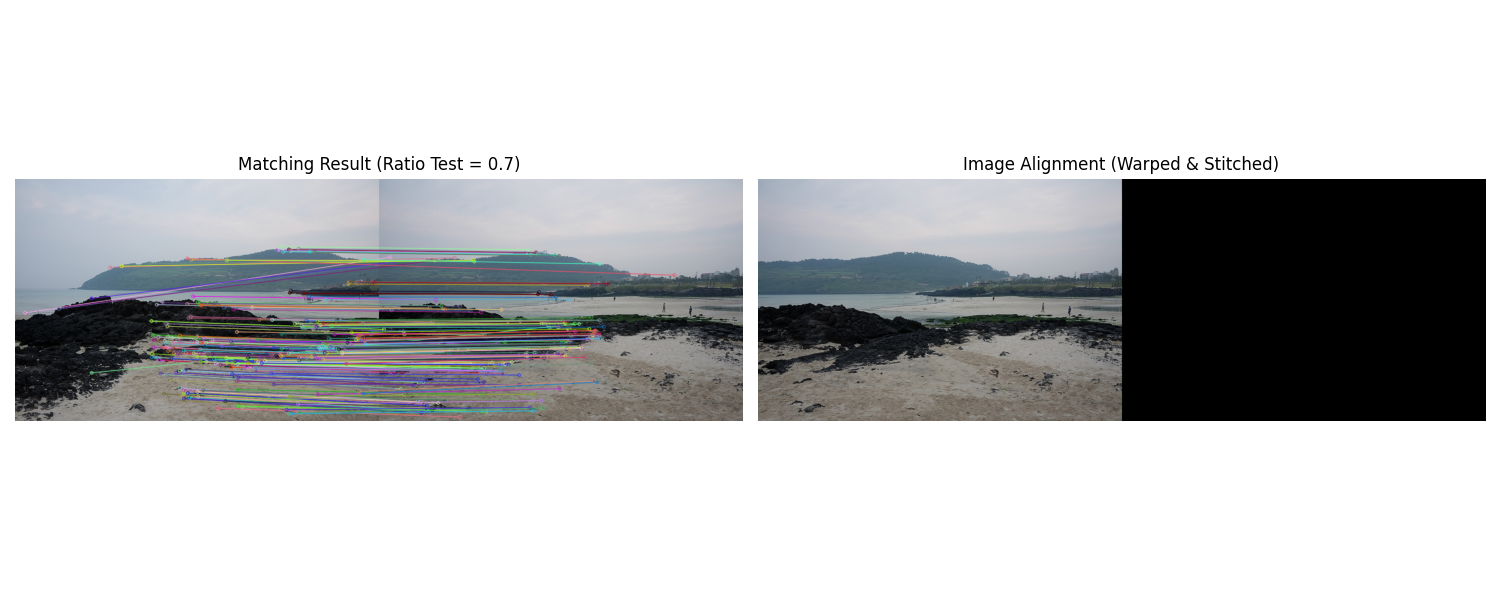
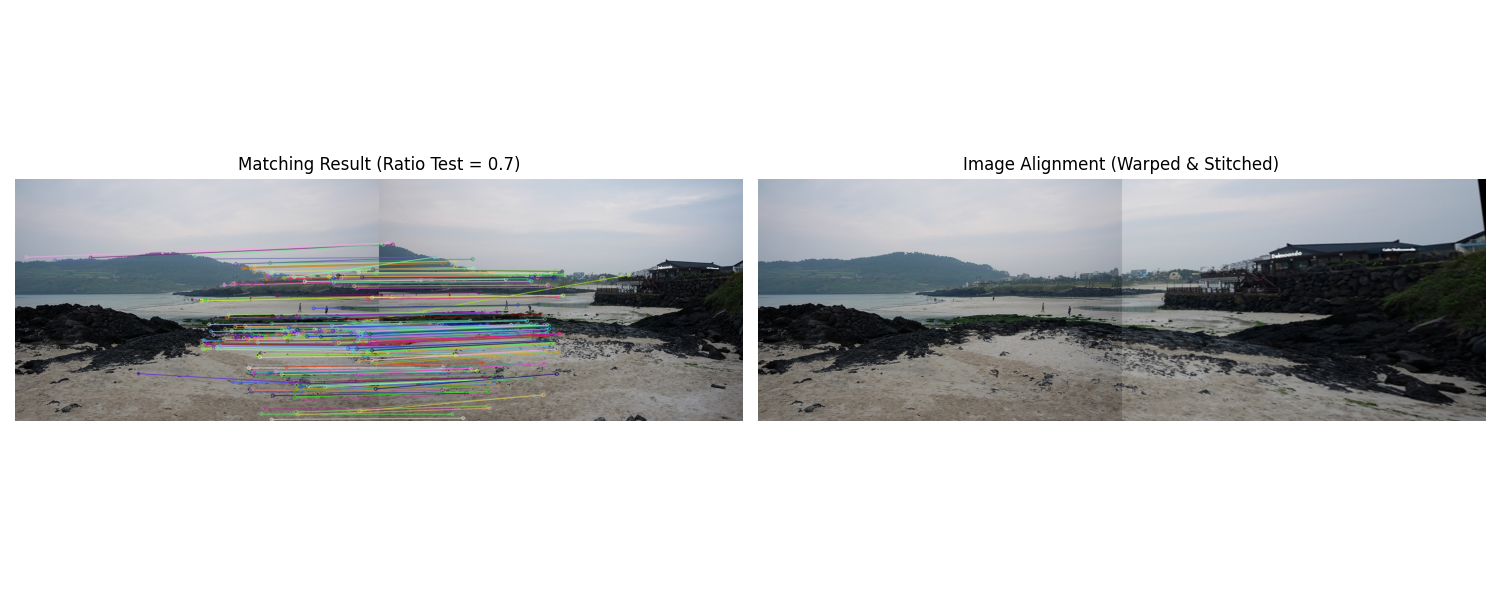
Fix Homography mapping direction to prevent panorama cropping

Changed region(s): [[0.0, 0.39, 0.5213, 0.72], [0.736, 0.3, 1.0, 0.72], [0.46, 0.33, 0.5213, 0.36]]

diff --git a/0326/0326-3.py b/0326/0326-3.py
@@ -5,8 +5,8 @@ import os
 
 base_dir = os.path.dirname(os.path.abspath(__file__))
 # 요구사항: 샘플파일로 img1.jpg, img2.jpg, img3.jpg 중 2개를 선택하여 사용
-img1_path = os.path.join(base_dir, 'img1.jpg')
-img2_path = os.path.join(base_dir, 'img2.jpg')
+img1_path = os.path.join(base_dir, 'img2.jpg')
+img2_path = os.path.join(base_dir, 'img3.jpg')
 
 # 1. 두 개의 이미지를 불러옴
 img1 = cv.imread(img1_path)
@@ -54,8 +54,10 @@ img_matches = cv.drawMatches(
 src_pts = np.float32([kp1[m.queryIdx].pt for m in good_matches]).reshape(-1, 1, 2)
 dst_pts = np.float32([kp2[m.trainIdx].pt for m in good_matches]).reshape(-1, 1, 2)
 
-# 힌트: cv.findHomography()에서 cv.RANSAC을 사용하여 이상점 영향을 줄임
-H, mask = cv.findHomography(src_pts, dst_pts, cv.RANSAC, 5.0)
+# 파노라마 합성 시 음수 좌표(잘림) 현상을 방지하기 위해 
+# 오른쪽 이미지(img2)를 왼쪽 이미지(img1)의 좌표계로 변환합니다.
+# 따라서 Homography는 img2(dst_pts)에서 img1(src_pts)로 가는 변환 행렬을 찾습니다.
+H, mask = cv.findHomography(dst_pts, src_pts, cv.RANSAC, 5.0)
 
 # 5. 한 이미지를 변환하여 다른 이미지와 정렬 (Image Alignment)
 h1, w1 = img1.shape[:2]
@@ -65,11 +67,11 @@ h2, w2 = img2.shape[:2]
 result_w = w1 + w2
 result_h = max(h1, h2)
 
-# img1을 img2 평면으로 변환
-warped_img = cv.warpPerspective(img1_rgb, H, (result_w, result_h))
+# img2를 img1 평면으로 변환
+warped_img = cv.warpPerspective(img2_rgb, H, (result_w, result_h))
 
-# Warped image에 img2의 내용을 덮어씌움으로써 단순 파노라마를 생성 (img2는 기준점 원점) 
-warped_img[0:h2, 0:w2] = img2_rgb
+# Warped image 공간 위에 기준점(원점)인 img1의 내용을 덮어씌움
+warped_img[0:h1, 0:w1] = img1_rgb
 
 # 6. 결과 시각화 (변환된 이미지와 부분 매칭 결과 투명 겹침은 아니며, 두 이미지를 나란히 출력)
 # 요구사항: 변환된 이미지 (Warped Image)와 특징점 매칭 결과(Matching Result)를 나란히 출력
